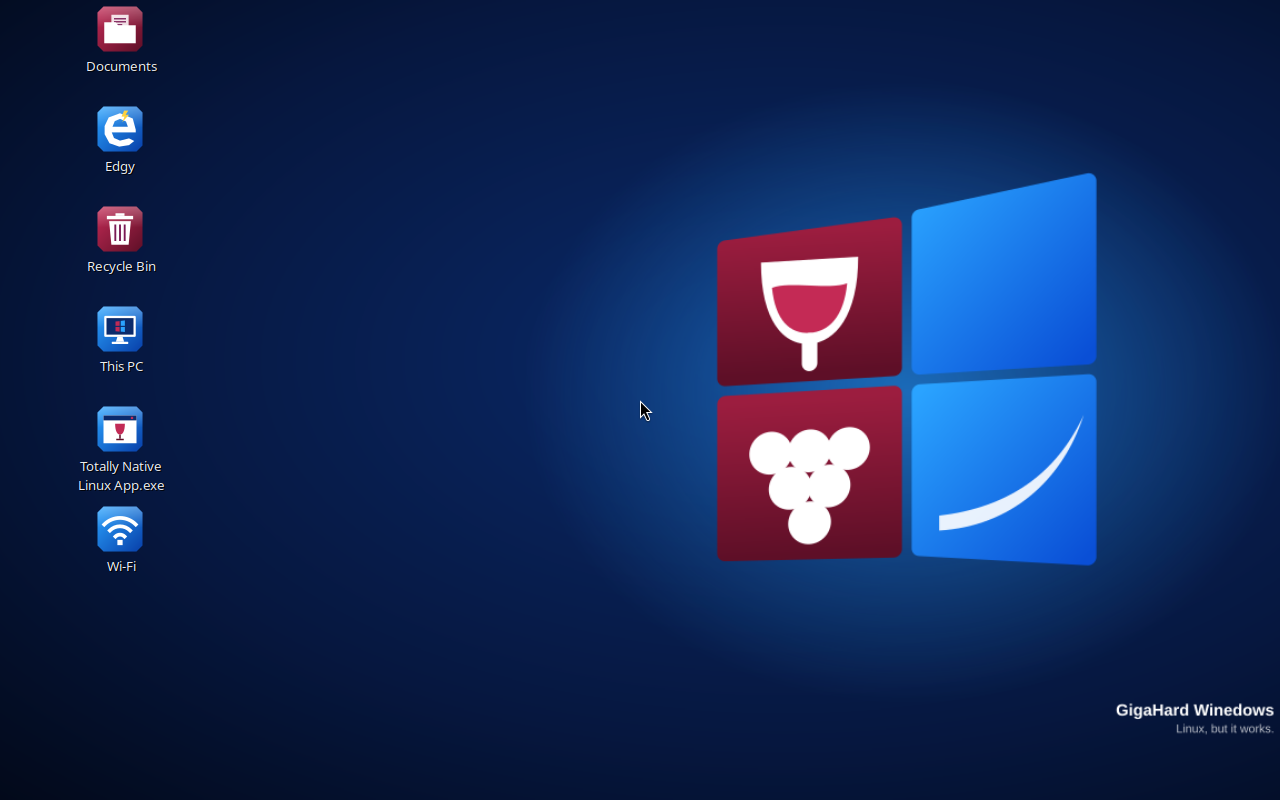
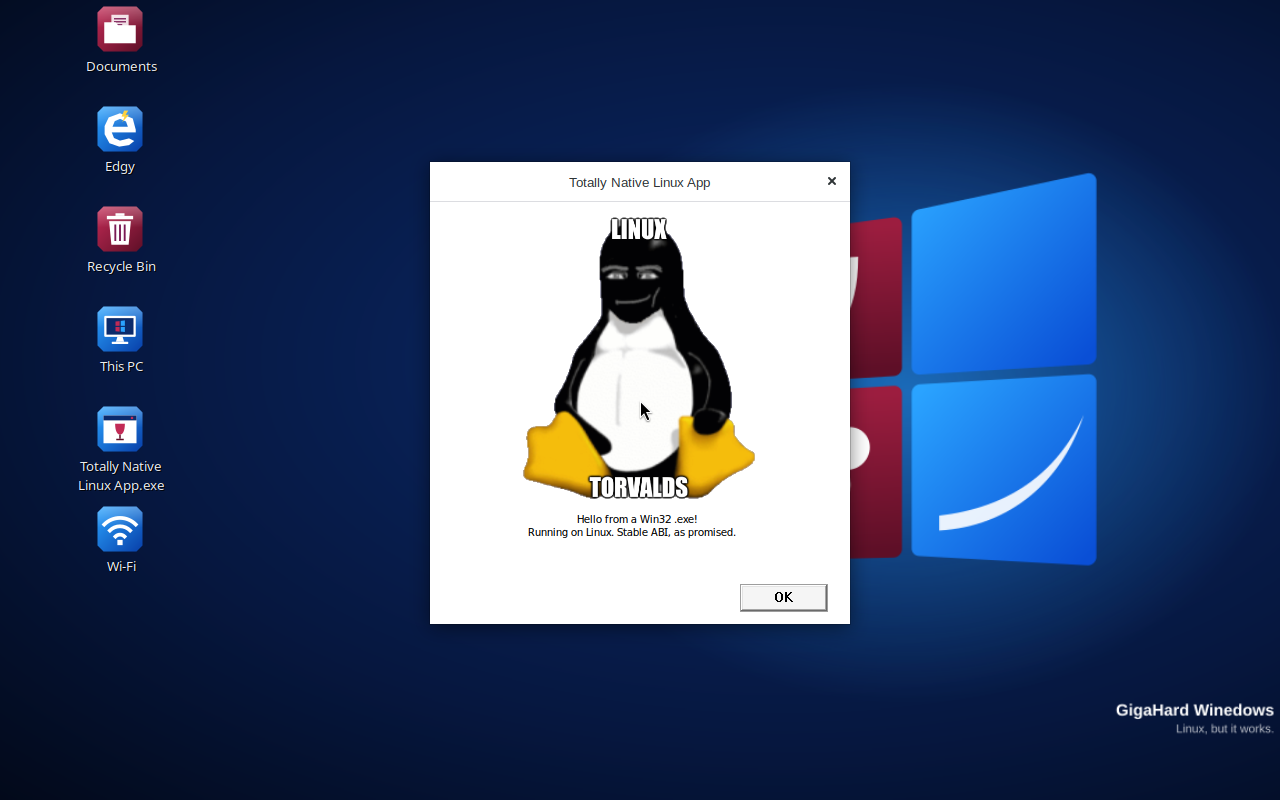
Site: screenshots from iso-38 (readable start page, Linus window open) [skip ci]
Claude-Session: https://claude.ai/code/session_01Vbv9yziXzmyGC4oEtY5EyH

Changed region(s): [[0.3125, 0.1875, 0.6875, 0.7812]]

diff --git a/docs/index.html b/docs/index.html
@@ -119,7 +119,7 @@ footer .wrap{display:flex;flex-wrap:wrap;gap:12px 32px;justify-content:space-bet
 <section class="blk alt" id="screens"><div class="wrap">
   <h2>The real thing</h2>
   <div class="shots">
-    <figure><a href="screenshots/desktop.png"><img src="screenshots/desktop.png" alt="Winedows desktop with icons for Documents, Edgy, Recycle Bin, This PC, Totally Native Linux App.exe and Wi-Fi" width="1280" height="800" loading="lazy"></a><figcaption>The desktop. Everything starts from an icon. There is nothing else to learn.</figcaption></figure>
+    <figure><a href="screenshots/desktop.png"><img src="screenshots/desktop.png" alt="Winedows desktop with icons for Documents, Edgy, Recycle Bin, This PC, Totally Native Linux App.exe and Wi-Fi, and the Totally Native Linux App window open" width="1280" height="800" loading="lazy"></a><figcaption>The desktop. Double-click Totally Native Linux App.exe and it runs.</figcaption></figure>
     <figure><a href="screenshots/edgy.png"><img src="screenshots/edgy.png" alt="The Edgy browser showing the Winedows start page" width="1280" height="800" loading="lazy"></a><figcaption>Edgy, the browser with all the edges.</figcaption></figure>
     <figure><a href="screenshots/bootmenu.png"><img src="screenshots/bootmenu.png" alt="The Winedows boot menu" width="800" height="600" loading="lazy"></a><figcaption>The boot menu. It starts on its own.</figcaption></figure>
     <figure><a href="screenshots/hardware.jpg"><img src="screenshots/hardware.jpg" alt="A ThinkPad laptop running Winedows, with the blueprint wallpaper and Edgy open on the start page" width="920" height="600" loading="lazy"></a><figcaption>Runs on ThinkPad.</figcaption></figure>
